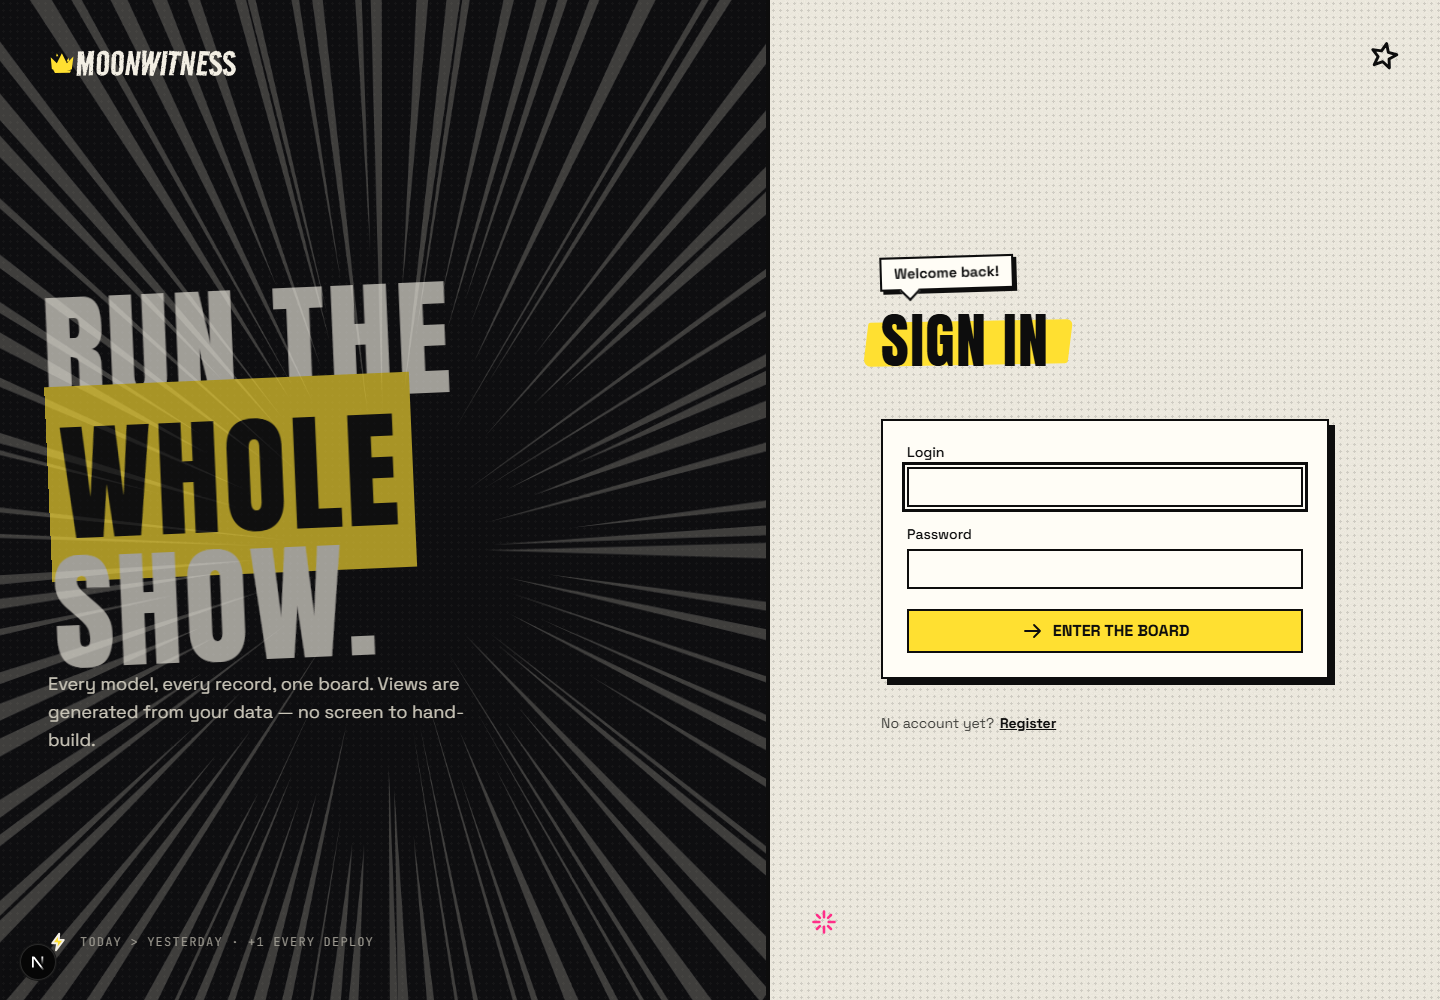
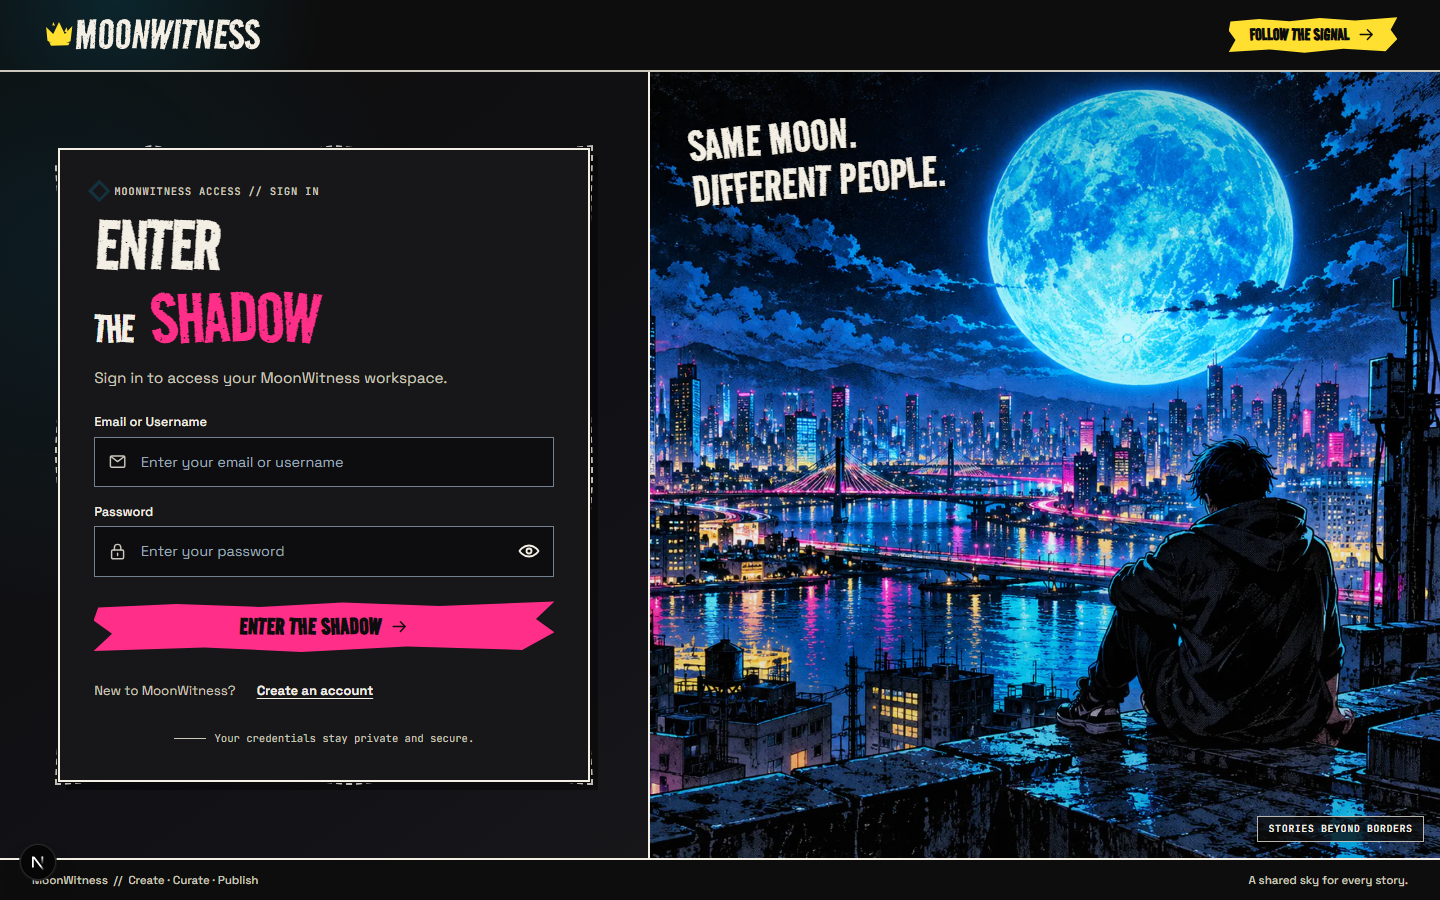
docs(ui): verify shadow auth motion and visual states

diff --git a/apps/board/e2e/auth.spec.ts b/apps/board/e2e/auth.spec.ts
@@ -2,6 +2,7 @@ import { expect, test } from '@playwright/test';
 import { E2E_SUPERADMIN_PASSWORD, loginPageUrl } from './constants.js';
 
 test('login form renders and rejects invalid credentials', async ({ page }) => {
+  await page.setViewportSize({ width: 390, height: 844 });
   await page.goto('/login');
   await expect(page.getByRole('heading', { name: 'Enter the Shadow' })).toBeVisible();
   await expect(page.getByLabel('Email or Username')).toBeVisible();
@@ -17,6 +18,10 @@ test('login form renders and rejects invalid credentials', async ({ page }) => {
 
   await expect(page.getByRole('alert').filter({ hasText: 'Invalid credentials' })).toBeVisible();
   await expect(page).toHaveURL(loginPageUrl);
+  await page.screenshot({
+    path: '../../docs/design/ui-catalog/auth-login-error-mobile-390.png',
+    fullPage: true,
+  });
 });
 
 test('login submit shows the shared spinner and keeps an explicit busy label', async ({ page }) => {

diff --git a/todo-ui.md b/todo-ui.md
@@ -201,7 +201,7 @@ Gunakan Road Rage sebagai brush display, Anton untuk judul condensed dan KPI, Sp
 - [x] Generate React wrappers typed dari sumber SVG canonical. Bukti: `pnpm test:ui` lulus; 50 ikon typed terbangun dari inventory.
 - Selesaikan migrasi icon langsung sebelum menutup pekerjaan ini; setelah semua kelompok di bawah lulus pemeriksaan visual, tambahkan gate yang melarang import `lucide-react` dari app.
 - [x] Migrasikan icon story workbench ke `KnowledgeIcon`, `WarningIcon`, dan `SaveIcon`; periksa desktop, tablet, mobile, serta ejaan. Bukti: baseline `workbench-filled-{desktop-1440,tablet-1024,mobile-390}`.
-- [x] Migrasikan ikon auth ke `ArrowRightIcon` public UI dan `LoadingSpinner` shared; label tombol menunjukkan submit aktif. Bukti: screenshot desktop/mobile di `docs/design/ui-catalog/auth-login-{desktop-1440,mobile-375}.png`; visual audit responsif dan keyboard lulus; ejaan `MOONWITNESS` diperiksa.
+- [x] Migrasikan ikon auth ke ikon canonical public UI dan `LoadingSpinner` shared; label tombol menunjukkan submit aktif. Bukti: `docs/design/ui-catalog/auth-login-{desktop-1440,mobile-390,loading-mobile-390}.png`; visual audit responsif dan keyboard lulus; ejaan `MOONWITNESS` diperiksa.
 - [ ] Migrasikan icon shell, navigasi, pencarian, breadcrumbs, dan shortcut dialog.
 - [ ] Migrasikan icon Knowledge, profile, settings, dan WhatsApp.
 - [ ] Migrasikan icon list, form, fields, tags, dan relation widgets.
@@ -463,39 +463,39 @@ Urutan: header → hero manga → tiga panel editorial → band koneksi → film
 ### Route lain
 
 - [x] Simpan dan tautkan mockup login “Enter the Shadow” sebagai referensi visual auth khusus di `docs/Moonwitness_ Enter the Shadow-Login.png`; tinjau visual wordmark sebagai `MOONWITNESS`. Gunakan gambar sebagai acuan, bukan spesifikasi fitur baru; normalisasikan kapitalisasi semua teks brand di aplikasi menjadi `MoonWitness`/`MOONWITNESS`.
-- [ ] Catat bahwa komposisi login memakai artwork malam-bulan-kota di sisi kanan dan panel form gelap di kiri.
-- [ ] Catat bahwa mahkota dan wordmark memakai sumber brand canonical, bukan lettering logo yang dirender sebagai teks.
-- [ ] Catat bahwa headline, label, helper text, status, dan tombol tetap berupa HTML yang dapat diakses.
-- [ ] Buat artwork login panorama tanpa teks, angka, logo, atau tombol tertanam.
-- [ ] Buat crop desktop dan mobile dengan focal point karakter/bulan yang tetap aman dari teks form.
-- [ ] Optimalkan artwork login sebagai aset responsif dan muat hanya pada route auth.
+- [x] Catat bahwa komposisi login memakai artwork malam-bulan-kota di sisi kanan dan panel form gelap di kiri. Bukti visual terbaru: `docs/design/ui-catalog/auth-login-desktop-1440.png`.
+- [x] Catat bahwa mahkota dan wordmark memakai sumber brand canonical, bukan lettering logo yang dirender sebagai teks. Bukti: `apps/board/src/board-pages/auth-page.tsx` memakai komponen `Logo`; header diperiksa di screenshot.
+- [x] Catat bahwa headline, label, helper text, status, dan tombol tetap berupa HTML yang dapat diakses. Bukti: `apps/board/e2e/visual-audit.spec.ts` lulus pemeriksaan heading, label, keyboard, dan axe pada lima ukuran.
+- [x] Buat artwork login panorama tanpa teks, angka, logo, atau tombol tertanam. Master dan dua crop diperiksa langsung; tidak ada lettering yang tertanam.
+- [x] Buat crop desktop dan mobile dengan focal point karakter/bulan yang tetap aman dari teks form. Bukti visual: screenshot desktop menampilkan moon/karakter di sisi kanan, mobile menampilkan crop moon/kota di atas form.
+- [x] Optimalkan artwork login sebagai aset responsif dan muat hanya pada route auth. Bukti: source WebP desktop/mobile tercatat di manifest; `<picture>` auth memilih crop menurut lebar layar.
 - [ ] Daftarkan sumber, pembuat/metode, lisensi, dimensi, focal point, dan alt/decorative status artwork.
-- [ ] Susun header auth dengan crown/wordmark di kiri dan tautan “Follow the Signal” hanya bila tujuan route-nya nyata.
-- [ ] Buat panel form berbingkai tinta/kertas kasar dengan padding aman agar dekorasi tidak menabrak kontrol.
-- [ ] Tampilkan headline “Enter the Shadow” sebagai teks semantik; pastikan “Shadow” mendapat aksen brush tanpa merusak wrapping.
-- [ ] Tampilkan deskripsi singkat yang sesuai fungsi login produk dan tidak mengklaim fitur yang tidak tersedia.
-- [ ] Terapkan field email/username memakai komponen shared dan label yang selalu terlihat.
-- [ ] Terapkan field password memakai komponen shared serta kontrol tampil/sembunyi yang berlabel aksesibel.
-- [ ] Pertahankan validasi, autocomplete, submit, loading, error, dan return path lokal yang tervalidasi.
-- [ ] Verifikasi apakah “Remember me” didukung secara nyata; tampilkan hanya jika semantik persistensi session sudah ditetapkan.
-- [ ] Verifikasi apakah “Forgot password?” mempunyai alur reset aktif; tampilkan hanya jika route/flow tersebut tersedia.
-- [ ] Jangan membuat checkbox atau link auth dekoratif yang tidak melakukan aksi sebenarnya.
-- [ ] Terapkan CTA “Enter the Shadow” sebagai shared Button dengan treatment brush dan target klik stabil.
+- [x] Susun header auth dengan crown/wordmark di kiri dan tautan “Follow the Signal” hanya bila tujuan route-nya nyata. Tujuannya kembali ke homepage; screenshot memperlihatkan ejaan dengan benar.
+- [x] Buat panel form berbingkai tinta/kertas kasar dengan padding aman agar dekorasi tidak menabrak kontrol. Bukti: screenshot normal/loading/error mobile dan desktop.
+- [x] Tampilkan headline “Enter the Shadow” sebagai teks semantik; pastikan “Shadow” mendapat aksen brush tanpa merusak wrapping. Bukti screenshot 320–1672 px dan assertion heading.
+- [x] Tampilkan deskripsi singkat yang sesuai fungsi login produk dan tidak mengklaim fitur yang tidak tersedia. Copy diperiksa visual.
+- [x] Terapkan field email/username memakai komponen shared dan label yang selalu terlihat. Bukti: visual audit dan axe.
+- [x] Terapkan field password memakai komponen shared serta kontrol tampil/sembunyi yang berlabel aksesibel. Bukti: tes keyboard menunjukkan tipe password berubah dan nama tombol berganti.
+- [x] Pertahankan validasi, autocomplete, submit, loading, error, dan return path lokal yang tervalidasi. Bukti: tes auth dan E2E return-path internal/eksternal.
+- [x] Verifikasi apakah “Remember me” didukung secara nyata; tampilkan hanya jika semantik persistensi session sudah ditetapkan. Belum ada pilihan “Remember me” di alur produk, jadi tidak ditampilkan.
+- [x] Verifikasi apakah “Forgot password?” mempunyai alur reset aktif; tampilkan hanya jika route/flow tersebut tersedia. Tidak ada reset route/flow, jadi link tidak ditampilkan.
+- [x] Jangan membuat checkbox atau link auth dekoratif yang tidak melakukan aksi sebenarnya. Screenshot auth tidak menunjukkan kontrol palsu.
+- [x] Terapkan CTA “Enter the Shadow” sebagai shared Button dengan treatment brush dan target klik stabil. E2E memastikan lebar tombol tetap saat spinner tampil.
 - [ ] Periksa CTA dalam kondisi normal, hover, focus-visible, pressed, disabled, submitting, dan gagal.
 - [ ] Tambahkan pemisah “Authorized crew only” hanya sebagai keterangan akses yang benar dan tidak menggantikan pesan auth.
 - [ ] Gunakan eye crop, sticker “Witness the real”, globe, scribble, dan moon motif sebagai ornamen dekoratif non-interaktif.
 - [ ] Pastikan ornamen auth memakai SVG canonical, `aria-hidden`, tanpa tab stop, dan tidak menangkap pointer.
-- [ ] Tambahkan footer MoonWitness hanya dengan legal/support link yang benar-benar tersedia.
+- [x] Tambahkan footer MoonWitness hanya dengan legal/support link yang benar-benar tersedia. Footer hanya memuat identitas dan copy produk; tidak ada link placeholder.
 - [ ] Jangan menambahkan link Privacy, Terms, atau Support menuju placeholder yang belum mempunyai tujuan.
-- [ ] Susun ulang halaman login mobile: brand dan form terbaca dahulu, artwork menjadi crop/section yang tidak menutupi form.
+- [x] Susun ulang halaman login mobile: brand dan artwork menjadi crop di atas form; form tidak terhalang dan dapat dibaca.
 - [ ] Periksa keyboard mobile terbuka, scroll, safe area, dan submit tanpa panel terpotong.
-- [ ] Periksa desktop di 1672×941 dan 1440×900, tablet di 768×1024, serta mobile di 390×844 dan lebar 320 px.
-- [ ] Ambil screenshot login normal, validasi, submitting, dan error dengan fixture deterministik.
+- [x] Periksa desktop di 1672×941 dan 1440×900, tablet di 768×1024, serta mobile di 390×844 dan lebar 320 px. Bukti: `apps/board/e2e/visual-audit.spec.ts`, audit lima viewport lulus.
+- [x] Ambil screenshot login normal, submitting, dan error dengan fixture deterministik. Bukti: `docs/design/ui-catalog/auth-login-desktop-1440.png`, `auth-login-mobile-390.png`, `auth-login-loading-mobile-390.png`, dan `auth-login-error-mobile-390.png`.
 - [ ] Bandingkan screenshot login berdampingan dengan mockup “Enter the Shadow” sebelum menerima visual.
-- [ ] Periksa secara visual ejaan `MoonWitness`, `Enter the Shadow`, `Follow the Signal`, dan `Authorized crew only`; koreksi copy/asset jika ada huruf tertukar atau terpotong.
+- [x] Periksa secara visual ejaan `MoonWitness`, `Enter the Shadow`, `Follow the Signal`, dan teks auth akses; koreksi copy/asset jika ada huruf tertukar atau terpotong. Empat screenshot auth di atas diperiksa; semua ejaan terlihat benar.
 - [ ] Pastikan kontras, fokus keyboard, label/nama aksesibel, zoom 200%, dan `prefers-reduced-motion` pada seluruh auth state.
-- [ ] Tautkan bukti screenshot yang sudah diperiksa pada checklist sebelum menandai desain login selesai.
-- [ ] Setelah komposisi disetujui, dokumentasikan pola visual auth, penggunaan logo, dan batas komponen form login di packages/ui/README.md sebagai UI Bible.
+- [x] Tautkan bukti screenshot yang sudah diperiksa pada checklist sebelum menandai desain login selesai. Link bukti ada pada item screenshot/state di atas.
+- [x] Dokumentasikan pola visual auth, penggunaan logo, motion/loading, dan batas komponen form login di `packages/ui/README.md` sebagai UI Bible.
 - [ ] Terapkan shared Toolbar/Table/Panel ke model list dan detail.
 - [ ] Pertahankan sorting keyboard, pagination, select-all, dan indeterminate.
 - [ ] Pertahankan filter, relational control, file input, dan row propagation.

diff --git a/packages/ui/README.md b/packages/ui/README.md
@@ -8,7 +8,7 @@ This is the single design and implementation rulebook for `@moonwitness/ui`. `TO
 - **Reference 2** is the homepage composition: narrow masthead, dominant manga city hero, three editorial panels, connection/map band, illustrated process strip, and a high contrast closing CTA.
 - **Reference 3** guides the internal story workbench: navigator on the left, readable editor/preview in the center, and a compact inspector on the right.
 - **Reference 4** guides the Board shell: brand masthead, persistent left navigation, metric strip, and dense operational panels.
-- **The supplied “Enter the Shadow” login reference** guides the authentication composition: oversized manga moon/city artwork, a framed ink form panel, crown/brush identity, and a clear sign-in action. Treat “Remember me”, “Forgot password?”, and footer links as visual concepts to verify against real product behavior; the reference does not authorize adding unsupported auth features.
+- **The supplied “Enter the Shadow” login reference** guides the authentication composition: at desktop widths, keep the crown/brush header above a left-side ink form and right-side moon/city artwork; on mobile, show a deliberate artwork crop before the form without covering its controls. Use the canonical brand lockup and shared `Panel`, `Label`, `Input`, `Button`, and `LoadingSpinner`. Keep headline, labels, helper text, errors, and submit status as accessible HTML. While auth is pending, disable the submit action, set `aria-busy`, and keep an explicit “Entering the shadow…” or “Creating account…” label beside the decorative spinner. Treat “Remember me”, “Forgot password?”, and footer links as concepts to verify against real product behavior; never add unsupported auth features.
 
 The shared visual vocabulary uses ink black, warm paper, brush lettering, manga/city artwork, rough frames, tape, halftone, hand marks, and deliberate magenta, cyan, and yellow accents. It should feel assembled and editorial rather than like a clean admin template with a dark background. Artwork creates atmosphere; HTML remains responsible for every heading, label, number, control, and status. Do not use a complete mockup screenshot as a page background.
 
@@ -75,7 +75,7 @@ Dialog centering must be defined in one place. `DialogContent` already applies T
 
 ## Motion and sound
 
-Motion is brief, purposeful, and never required to understand a state. Respect `prefers-reduced-motion` in CSS and JavaScript. Avoid perpetual parallax, animated texture, or hidden/off-screen work. Effects never intercept input. Prefer CSS/SVG; add canvas/WebGL only for a measured need with an explicit performance budget.
+Motion is brief, purposeful, and never required to understand a state. Use shared motion tokens for hover/press feedback, active navigation markers, overlays, and status transitions. LoadingSpinner and progress indicators animate only while a real operation is pending; their text labels carry the state. Respect `prefers-reduced-motion` in CSS and JavaScript by stopping nonessential movement and leaving a legible static state. Avoid perpetual parallax, animated texture, or hidden/off-screen work. Effects never intercept input. Keep focus rings and hit areas stable through transitions. Prefer CSS/SVG; add canvas/WebGL only for a measured need with an explicit performance budget. Screenshot checks should use deterministic content and avoid capturing midway through unrelated transitions.
 
 Use `SoundProvider`, `useSfx`, and `SoundToggle` from the audio public subpath. Default to muted. Sound is available only after a user interaction and an explicit unmuted preference, stored locally. Load a named short cue only when an approved success, important alert, or explicit media action occurs. Never sound on hover, scrolling, or every click. Allow one cue to play at a time; drop new cues while the current cue is active. Release the playback slot after completion or failure. Audio failure cannot affect the product action, and visual/text status remains complete when sound is unavailable.
 
